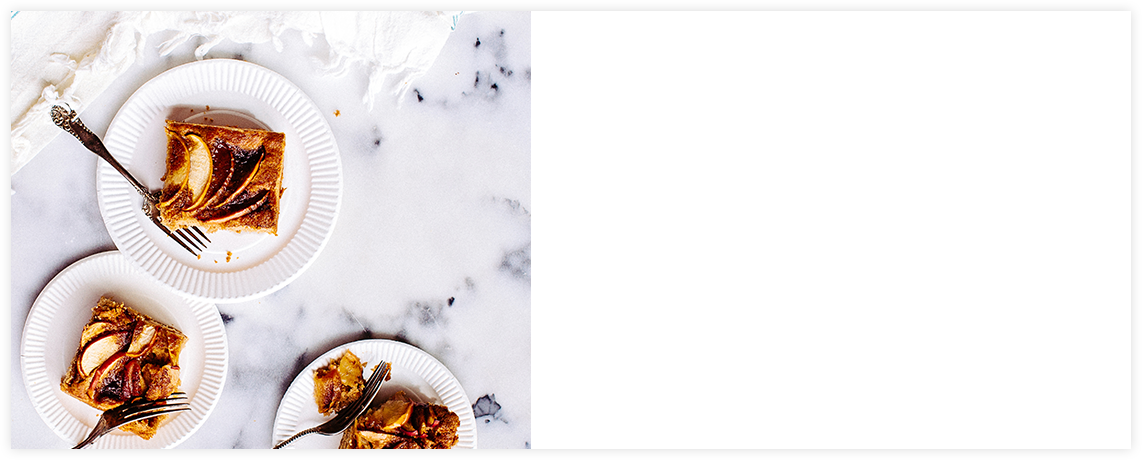
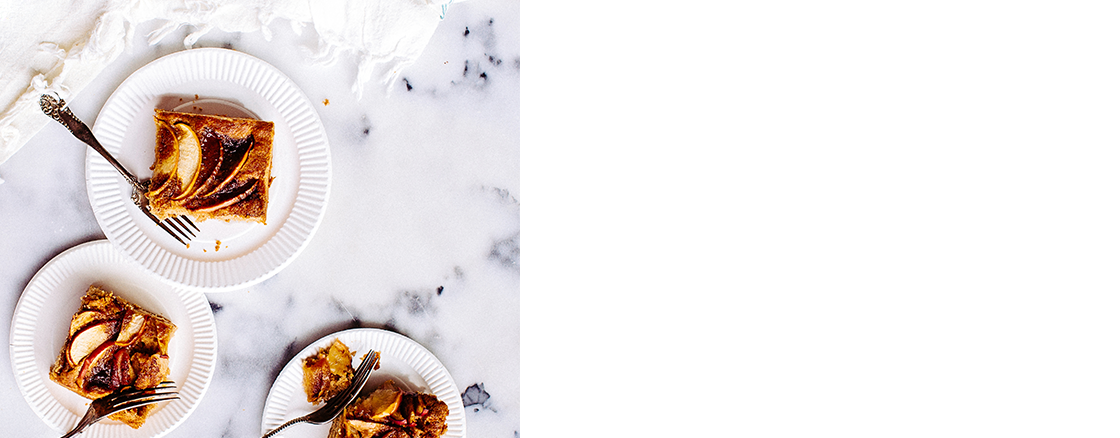
Change images

diff --git a/PSD_Lemon/styles/styles.css b/PSD_Lemon/styles/styles.css
@@ -142,22 +142,23 @@ body::-webkit-scrollbar-thumb {
 }
 /*__________________________ RECIPE FULL __________________________*/
 .recipe-full {
-	background-image: url('../images/recipe.png');
-	background-repeat: no-repeat;
-	background-size: cover;
-	background-position: 50%;
+	background: url('../images/recipe.png') no-repeat;
+    -webkit-background-size: 100%;
+    -moz-background-size: 100%;
+    -o-background-size: 100%;
+     background-size: 100%;
 }
 .recipe-full > * {
 	background-color: none;
 }
 .recipe-full_head {
-	padding-left: 600px;
+	margin-left: 600px;
 	font-size: 18pt;
 	text-transform: capitalize;
 	color: #055555;
 }
 .recipe-full_info {
-	padding-left: 600px;
+	margin-left: 600px;
 }
 .recipe-full_info img {
 	width: 17px;
@@ -171,9 +172,9 @@ body::-webkit-scrollbar-thumb {
 	border: 1px solid #c2c2c2;
 }
 .recipe-full_body {
-	margin-top: 20px;
+	margin-top: 15px;
 	margin-right: 20px;
-	padding-left: 600px;
+	margin-left: 600px;
 	padding-right: 20px;
 	height: 250px;
 	overflow-y: scroll;
